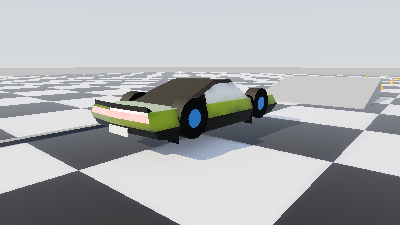
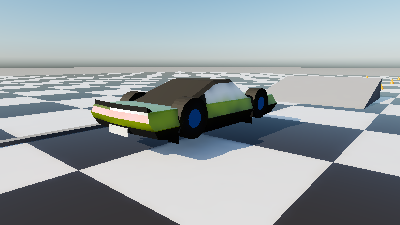
Surfel GI: the engine's real atmosphere, baked into a dome
The sky was still mine: an analytic two-colour gradient with a scattering lobe
bolted on. Last commit fixed the sun and left this as the stated remaining
approximation. It is now the engine's own air.

Nothing had to be extracted. AtmosphereModel::Integrate is already a plain
static -- Rayleigh, Mie, ozone, planet shadow, the lot -- and the only thing
the surfel path lacked was the Medium/Light parameters to feed it. Those come
out of CelestialSequence::ApplyTo via VisibilityRaster::QueryCelestial, which
is exactly how the raster receives them, so both paths now march the SAME air
rather than two different skies that happen to sit side by side in a comparison
sheet.

Marching per ray is not affordable here -- 29k surfels x 8 rays x 64 frames,
each a nested sample x light-sample integral -- so it is baked once into a
128x64 lat-long dome and sampled bilinearly. That is the same trade the engine
itself offers through its baked sky dome, and the bake is reported in the run
log so a reader can see which path was taken:

    SurfelReference: sky from AtmosphereModel (128x64 dome, 16/6 atmosphere samples)
    SurfelReference: sun hour 13.00 -> dir (-0.792 0.290 0.537), radiance (5.22 4.56 3.53)

The analytic gradient survives only as a fallback for a disabled sky, and says
so where it is written.

One linker consequence worth recording. MaterialEvaluation.slang is shader text:
its functions sit at namespace scope with external linkage, which is harmless
[…]

diff --git a/VehiclePhysics/Overlay/Projects/Project-Drive/Source/SurfelReference.cpp b/VehiclePhysics/Overlay/Projects/Project-Drive/Source/SurfelReference.cpp
@@ -20,6 +20,9 @@
 // ONE material model for every CPU render path -- see the header of this file for why this is not optional.
 #include "ContentInterchange/UnifiedMaterialEvaluation.h"
 #include "CelestialSequence.h"
+#include "GeometricRaster/VisibilityRaster.h"
+#include "DisplayPresentation/AtmosphereModel.h"
+#include "DisplayPresentation/CelestialTier.h"
 #include "ControlVehicleMesh.inl"
 
 #include <algorithm>
@@ -227,19 +230,51 @@ struct BVH{
 // standing instruction for this project is explicit that Project-Drive must not have a flat sky.
 static V   SUN_DIR = norm(V{-0.496f, 0.868f, 0.012f});   // replaced at startup by the solved direction
 static V   SUN_COL = V{1.0f,0.95f,0.85f}*3.0f;           // replaced at startup by the solved radiance
-static V   SKY_ZENITH{0.35f,0.5f,0.85f}, SKY_HORIZON{0.7f,0.75f,0.8f};
+// ── the engine's own sky, baked into a dome LUT ────────────────────────────────────────────────────────────
+// Previously an analytic two-colour gradient. The engine integrates a real atmosphere -- Rayleigh, Mie, ozone,
+//    planet shadow -- through AtmosphereModel::Integrate, and that is a plain static function, so nothing had
+//    to be extracted: the only thing the surfel path was missing was the Medium/Light parameters. Those come
+//    out of CelestialSequence::ApplyTo via VisibilityRaster::QueryCelestial, which is how the raster gets them,
+//    so both paths now march the SAME air.
+//
+//    Marching per ray would be ruinous here (29k surfels x 8 rays x 64 frames, each a nested
+//    sample x light-sample integral), so it is baked once into a lat-long dome and sampled bilinearly. That
+//    is exactly the trade the engine itself offers as its baked sky dome.
+static Frontier::VisibilityRaster::CelestialSettings g_Sky;
+static bool g_SkyBaked = false;
+static constexpr int kDomeU = 128, kDomeV = 64;
+static std::vector<V> g_Dome;
 
-// Analytic dome anchored to the SOLVED sun: zenith/horizon tints and a forward-scattering lobe about the sun,
-//    scaled by the solved radiance. The engine's full atmosphere march lives inside VisibilityRaster::SkyAlong
-//    as a lambda over its own pixel grid and is not callable from here, so this is an approximation of the
-//    dome -- but it is anchored to the real sun rather than invented, and the SUN itself, which carries the
-//    overwhelming majority of the energy outdoors, is exact.
+static V DomeFetch(V d){
+    const float u = (std::atan2(d.y, d.x) + PI) * (1.0f/(2.0f*PI));
+    const float v = std::acos(std::max(-1.0f, std::min(1.0f, d.z))) * (1.0f/PI);
+    float fu = u*(kDomeU-1), fv = v*(kDomeV-1);
+    int iu=(int)fu, iv=(int)fv; float tu=fu-iu, tv=fv-iv;
+    int iu1=(iu+1)%kDomeU, iv1=std::min(iv+1,kDomeV-1);
+    iu=std::max(0,std::min(iu,kDomeU-1)); iv=std::max(0,std::min(iv,kDomeV-1));
+    const V a=g_Dome[iv*kDomeU+iu], b=g_Dome[iv*kDomeU+iu1];
+    const V c=g_Dome[iv1*kDomeU+iu], e=g_Dome[iv1*kDomeU+iu1];
+    return (a*(1-tu)+b*tu)*(1-tv) + (c*(1-tu)+e*tu)*tv;
+}
+
+static void BakeDome(){
+    g_Dome.assign((size_t)kDomeU*kDomeV, V{0,0,0});
+    for(int iv=0; iv<kDomeV; ++iv) for(int iu=0; iu<kDomeU; ++iu){
+        const float phi = (iu/(float)(kDomeU-1))*2.0f*PI - PI;
+        const float th  = (iv/(float)(kDomeV-1))*PI;
+        const float st=std::sin(th);
+        float dir[3]={st*std::cos(phi), st*std::sin(phi), std::cos(th)};
+        const Frontier::AtmosphereSample S = Frontier::AtmosphereModel::Integrate(
+            g_Sky.Medium, g_Sky.Light, g_Sky.CameraHeight, dir, g_Sky.SampleCount, g_Sky.LightSampleCount);
+        g_Dome[(size_t)iv*kDomeU+iu] = V{S.Radiance[0], S.Radiance[1], S.Radiance[2]};
+    }
+    g_SkyBaked = true;
+}
+
 static V SkyColour(V d){
-    const float t = std::max(0.0f, d.z);
-    V base = SKY_ZENITH*t + SKY_HORIZON*(1.0f-t);
-    const float c = std::max(0.0f, dot(norm(d), SUN_DIR));
-    const float lobe = 0.25f * c*c*c*c;                  // the brightening around the sun
-    return base * (1.0f + lobe);
+    if (g_SkyBaked) return DomeFetch(norm(d));
+    const float t = std::max(0.0f, d.z);                 // fallback only if the sky never came up
+    return V{0.35f,0.5f,0.85f}*t + V{0.7f,0.75f,0.8f}*(1.0f-t);
 }
 // `wo` points towards the viewer.  The BSDF is the engine's; only the transport around it is this file's.
 static V DirectLight(const BVH& bvh, V P, V N, uint32_t mat, V wo){
@@ -396,6 +431,17 @@ int main(int argc,char**argv){
         //    (5.22, 4.56, 3.53): warm, because a 32.5-degree sun has come a long way through the air.
         const V Rad{R.SunDirect[0], R.SunDirect[1], R.SunDirect[2]};
         if (len(Rad) > 1e-6f) SUN_COL = Rad;
+
+        // The same atmosphere the raster is handed, read back through the public accessor and baked.
+        Frontier::VisibilityRaster Probe;
+        Frontier::CelestialBudget Budget;
+        Budget.AtmosphereSamples = 16u; Budget.AtmosphereLightSamples = 6u;
+        Sky.ApplyTo(Probe, Budget);
+        g_Sky = Probe.QueryCelestial();
+        if (g_Sky.Enabled) BakeDome();
+        std::printf("SurfelReference: sky %s (%dx%d dome, %u/%u atmosphere samples)\n",
+                    g_SkyBaked ? "from AtmosphereModel" : "FALLBACK gradient",
+                    kDomeU, kDomeV, g_Sky.SampleCount, g_Sky.LightSampleCount);
         std::printf("SurfelReference: sun hour %.2f -> dir (%.3f %.3f %.3f), radiance (%.2f %.2f %.2f)\n",
                     sunHour, SUN_DIR.x, SUN_DIR.y, SUN_DIR.z, SUN_COL.x, SUN_COL.y, SUN_COL.z);
     }

diff --git a/VehiclePhysics/Overlay/Engine/ContentInterchange/UnifiedMaterialEvaluation.h b/VehiclePhysics/Overlay/Engine/ContentInterchange/UnifiedMaterialEvaluation.h
@@ -86,7 +86,15 @@ inline vec4 FetchSheenFull(float mu, float alpha)
 }
 
 #define FRONTIER_AUTOMOTIVE_SHOWCASE 1
+// INTERNAL LINKAGE. MaterialEvaluation.slang is shader text: its functions are written at namespace scope
+//    with external linkage, which is fine while exactly one translation unit in a binary includes it. The
+//    moment two do -- here, VisibilityRaster and SurfelReference in the same link -- the linker reports
+//    multiple definition of EvaluateBsdf, SampleBsdf, PdfBsdf and the rest. An anonymous namespace gives each
+//    TU its own copy, which is what an inline function would have done had the shader been written as one.
+//    Nothing crosses a TU boundary here: every caller evaluates the lobe set locally.
+namespace {
 #include "Shaders/MaterialEvaluation.slang"   // the shipped OpenPBR lobe set, compiled 1:1 as C++
+}
 
 namespace Frontier::UnifiedMaterial {
 

diff --git a/Exhibits/Workbench/FrontierMirror/RunDriveRenderModes.py b/Exhibits/Workbench/FrontierMirror/RunDriveRenderModes.py
@@ -88,6 +88,14 @@ MLV_SOURCES = [
     "Engine/ContentInterchange/AssetResolution.cpp",
     "Engine/ContentInterchange/SpaceCodec.cpp",
     "Engine/ContentInterchange/SpaceExport.cpp",
+    # AtmosphereModel's parameters arrive through CelestialSequence::ApplyTo(VisibilityRaster&), so the raster
+    # and its scene deps are linked purely to read the sky settings back out of QueryCelestial.
+    "Engine/GeometricRaster/VisibilityRaster.cpp",
+    "Engine/GeometricRaster/SceneStructure.cpp",
+    "Engine/GeometricRaster/GeometryStructure.cpp",
+    "Engine/GeometricRaster/CameraProjection.cpp",
+    "Engine/DeviceExchange/OrientationClassifier.cpp",
+    "Engine/ContentInterchange/TextureIndex.cpp",
 ]
 SURFEL_SOURCES = [
     # The GI-on / RT-off path. Its gather, radius rule and spawn policy are the shipped ones --
